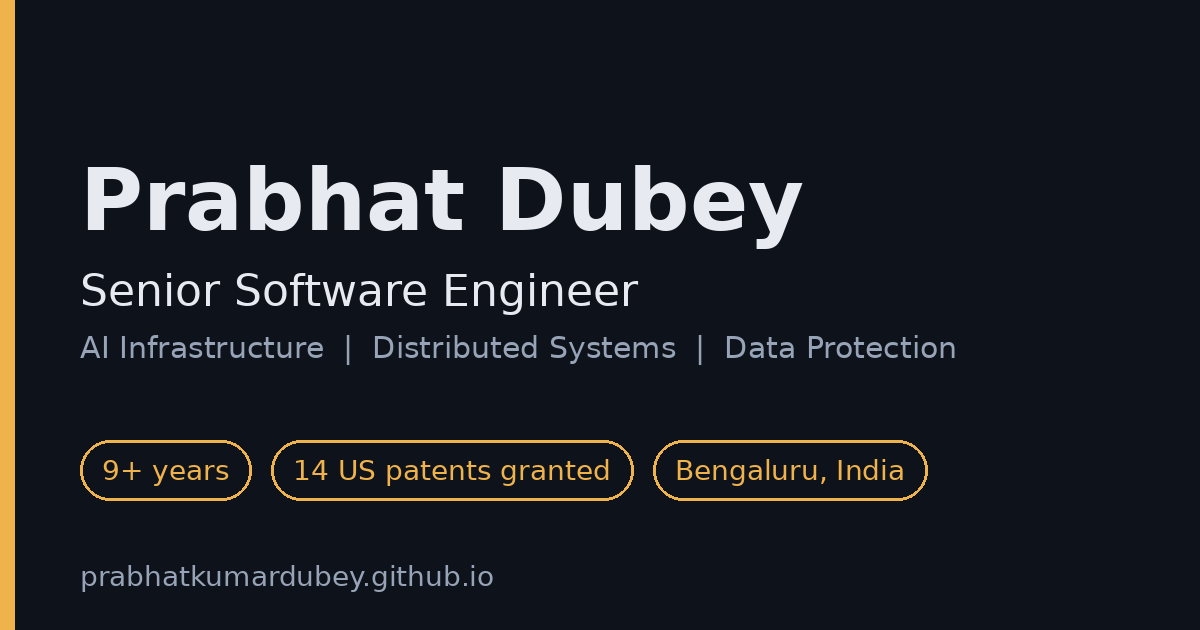
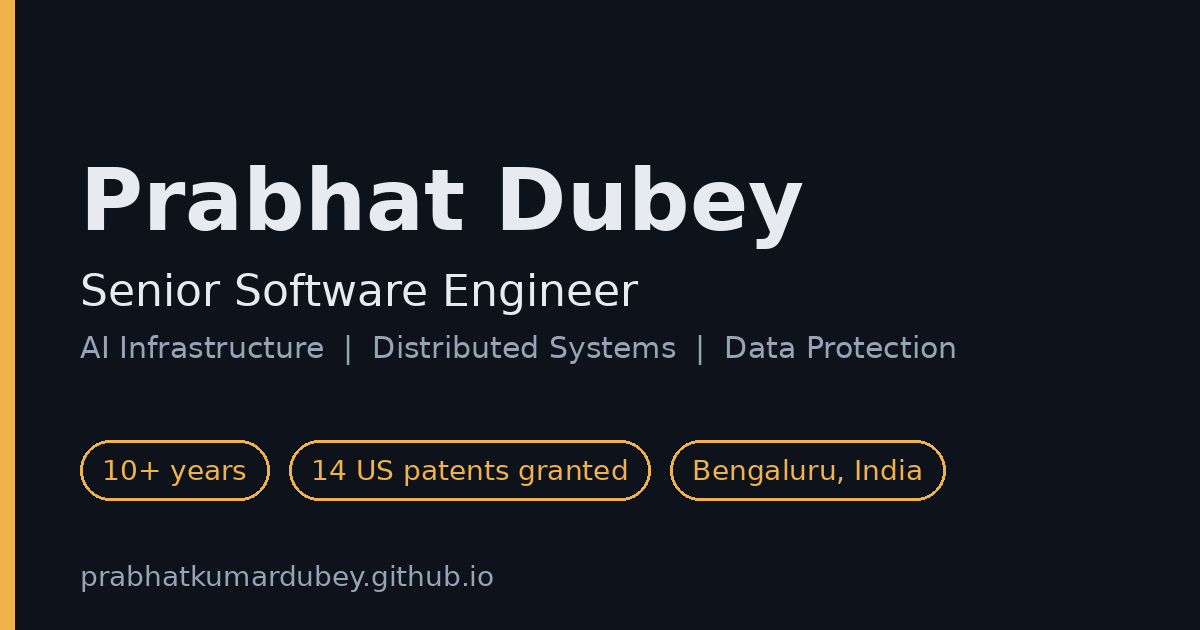
Calculate years of experience dynamically; update to 10+

Changed region(s): [[0.0925, 0.6937, 0.8017, 0.8143]]

diff --git a/index.html b/index.html
@@ -4,7 +4,7 @@
 <meta charset="utf-8">
 <meta name="viewport" content="width=device-width, initial-scale=1">
 <title>Prabhat Dubey | Senior Software Engineer, AI Infrastructure</title>
-<meta name="description" content="Senior Software Engineer with 9+ years in distributed systems, AI infrastructure and data protection. 14 US patents granted. Based in Bengaluru, India.">
+<meta name="description" content="Senior Software Engineer with 10+ years in distributed systems, AI infrastructure and data protection. 14 US patents granted. Based in Bengaluru, India.">
 <link rel="canonical" href="https://prabhatkumardubey.github.io/">
 <link rel="icon" href="favicon.ico" sizes="any">
 <link rel="icon" href="favicon-32.png" type="image/png" sizes="32x32">
@@ -12,14 +12,14 @@
 <meta name="theme-color" content="#0e131b">
 <meta property="og:type" content="website">
 <meta property="og:title" content="Prabhat Dubey | Senior Software Engineer, AI Infrastructure">
-<meta property="og:description" content="Senior Software Engineer with 9+ years in distributed systems, AI infrastructure and data protection. 14 US patents granted. Based in Bengaluru, India.">
+<meta property="og:description" content="Senior Software Engineer with 10+ years in distributed systems, AI infrastructure and data protection. 14 US patents granted. Based in Bengaluru, India.">
 <meta property="og:url" content="https://prabhatkumardubey.github.io/">
 <meta property="og:image" content="https://prabhatkumardubey.github.io/og-image.png">
 <meta property="og:image:width" content="1200">
 <meta property="og:image:height" content="630">
 <meta name="twitter:card" content="summary_large_image">
 <meta name="twitter:title" content="Prabhat Dubey | Senior Software Engineer">
-<meta name="twitter:description" content="Senior Software Engineer with 9+ years in distributed systems, AI infrastructure and data protection. 14 US patents granted. Based in Bengaluru, India.">
+<meta name="twitter:description" content="Senior Software Engineer with 10+ years in distributed systems, AI infrastructure and data protection. 14 US patents granted. Based in Bengaluru, India.">
 <meta name="twitter:image" content="https://prabhatkumardubey.github.io/og-image.png">
 <script type="application/ld+json">{"@context":"https://schema.org","@type":"Person","name":"Prabhat Dubey","url":"https://prabhatkumardubey.github.io/","jobTitle":"Senior Software Engineer","worksFor":{"@type":"Organization","name":"Dell Technologies"},"address":{"@type":"PostalAddress","addressLocality":"Bengaluru","addressCountry":"IN"},"email":"mailto:prabhatdubey.maildrop@gmail.com","sameAs":["https://www.linkedin.com/in/prabhat-kumar-dubey/","https://github.com/prabhatkumardubey"],"knowsAbout":["Distributed systems","AI infrastructure","LLM and RAG","Cloud storage","Data protection"],"alumniOf":[{"@type":"CollegeOrUniversity","name":"Guru Ghasidas Central University"},{"@type":"CollegeOrUniversity","name":"BITS Pilani"}]}</script>
 <link rel="preconnect" href="https://fonts.googleapis.com">
@@ -47,7 +47,7 @@
   <h1>Prabhat Dubey</h1>
   <p class="headline">Senior Software Engineer • AI Infrastructure • Distributed Systems • LLM/GenAI • Data Protection</p>
   <ul class="badges">
-    <li>9+ Years Experience</li><li>14 Patents Granted</li><li>Petabyte-Scale Cloud &amp; AI Systems</li>
+    <li><span class="yrs">10</span>+ Years Experience</li><li>14 Patents Granted</li><li>Petabyte-Scale Cloud &amp; AI Systems</li>
   </ul>
   <p class="contact">
     Bengaluru, India · <a href="tel:+918310431303">+91-8310431303</a> ·
@@ -56,7 +56,7 @@
     <a href="https://github.com/prabhatkumardubey" rel="noopener"><svg class="ic" width="20" height="20" viewBox="0 0 24 24" aria-hidden="true" focusable="false"><path fill="currentColor" d="M12 .297c-6.63 0-12 5.373-12 12 0 5.303 3.438 9.8 8.205 11.385.6.113.82-.258.82-.577 0-.285-.01-1.04-.015-2.04-3.338.724-4.042-1.61-4.042-1.61C4.422 18.07 3.633 17.7 3.633 17.7c-1.087-.744.084-.729.084-.729 1.205.084 1.838 1.236 1.838 1.236 1.07 1.835 2.809 1.305 3.495.998.108-.776.417-1.305.76-1.605-2.665-.3-5.466-1.332-5.466-5.93 0-1.31.465-2.38 1.235-3.22-.135-.303-.54-1.523.105-3.176 0 0 1.005-.322 3.3 1.23.96-.267 1.98-.399 3-.405 1.02.006 2.04.138 3 .405 2.28-1.552 3.285-1.23 3.285-1.23.645 1.653.24 2.873.12 3.176.765.84 1.23 1.91 1.23 3.22 0 4.61-2.805 5.625-5.475 5.92.42.36.81 1.096.81 2.22 0 1.606-.015 2.896-.015 3.286 0 .315.21.69.825.57C20.565 22.092 24 17.592 24 12.297c0-6.627-5.373-12-12-12"/></svg>GitHub</a>
   </p>
   <div class="stats" id="stats">
-    <div><b data-n="9" data-s="+">0</b><span>years building production systems</span></div>
+    <div><b data-n="10" data-s="+" data-years>0</b><span>years building production systems</span></div>
     <div><b data-n="14">0</b><span>US patents granted</span></div>
     <div><b data-n="1000" data-s="+">0</b><span>edge devices onboarded automatically</span></div>
     <div><b data-n="99.9" data-s="%" data-d="1">0</b><span>restore reliability, 50+ enterprise customers</span></div>
@@ -66,7 +66,7 @@
 
 <section id="about">
   <h2>About</h2>
-  <p class="prose">Senior Software Engineer with 9+ years of experience building high-throughput distributed systems, AI/ML infrastructure, and cloud-native platforms at scale. Architected enterprise-grade solutions processing petabyte-scale data across AWS and Azure ecosystems. Currently building LLM-powered intelligent systems with RAG pipelines and AI agents for enterprise automation. Inventor on 14 granted US patents in cloud storage and virtualization. Proven track record of shipping zero-downtime features, driving cross-functional engineering teams, and integrating AI capabilities into production systems. Currently pursuing M.Tech in AI/ML from BITS Pilani.</p>
+  <p class="prose">Senior Software Engineer with <span class="yrs">10</span>+ years of experience building high-throughput distributed systems, AI/ML infrastructure, and cloud-native platforms at scale. Architected enterprise-grade solutions processing petabyte-scale data across AWS and Azure ecosystems. Currently building LLM-powered intelligent systems with RAG pipelines and AI agents for enterprise automation. Inventor on 14 granted US patents in cloud storage and virtualization. Proven track record of shipping zero-downtime features, driving cross-functional engineering teams, and integrating AI capabilities into production systems. Currently pursuing M.Tech in AI/ML from BITS Pilani.</p>
 </section>
 
 <section id="skills"><h2>Technical skills</h2><p class="muted hint">Select a skill to see the projects and roles where it was used.</p><div id="skill-grid" class="grid"></div></section>

diff --git a/script.js b/script.js
@@ -1,3 +1,10 @@
+// Years of experience: calculated from career start (Aug 2016), so it updates itself every year.
+(function () {
+  var now = new Date(), y = now.getFullYear() - 2016;
+  if (now < new Date(now.getFullYear(), 7, 1)) y--;
+  [].forEach.call(document.querySelectorAll(".yrs"), function (e) { e.textContent = y; });
+  var b = document.querySelector("[data-years]"); if (b) b.dataset.n = y;
+})();
 (function () {
   var skills = {
     "Languages": ["C++","Java","Python","C#","Go","TypeScript"],

diff --git a/README.md b/README.md
@@ -7,6 +7,7 @@ A fast, static portfolio and resume site for a Senior Software Engineer (AI infr
 ## Features
 - Dark-first design with a light/dark toggle that remembers your choice
 - Sticky navigation that highlights the current section, plus a reading-progress bar
+- Years of experience calculated automatically from an Aug 2016 start date (change it at the top of `script.js`)
 - Headline stats that count up on first view (respects reduced-motion settings)
 - Clickable skills: select a skill to highlight the projects and roles where it was used
 - Experience timeline with expandable roles and an Expand all / Collapse all control
